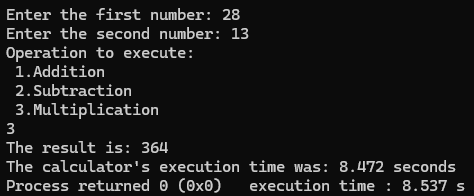
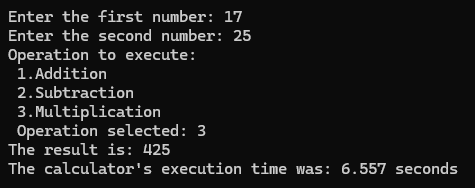
calculator and functions

Changed region(s): [[0.0, 0.0266, 1.0, 0.984], [0.4135, 0.6649, 0.443, 0.7181]]

diff --git a/functions/funciones.cpp b/functions/funciones.cpp
@@ -1,0 +1,56 @@
+//This program gives the result from the sine, cosine or tangent functions based on the user's election.
+#include <iostream>
+#include <cmath>
+#include <ctime>
+using namespace std;
+
+int main()
+{
+    float value, operation, result;
+    string func;
+    clock_t t;
+
+    t=clock();
+    cout<<"Enter a number: ";
+    cin>> value;
+    cout<<"Select the function to perform:\n 1.Sine\n 2.Cosine\n 3.Tangent\n Function selected: ";
+    cin>> operation;
+
+    if(operation == 1) //Sine
+    {
+        func = "sine";
+        result = sin(value);
+        cout<<"The sine of "<<value<<" is "<<result<<endl;
+    }
+    else
+    {
+        if(operation == 2) //Cosine
+        {
+            func = "cosine";
+            result = cos(value);
+            cout<<"The cosine of "<<value<<" is "<<result<<endl;
+        }
+        else
+        {
+            func = "tangent";
+            if(operation == 3) //Tangent
+            {
+                result = tan(value);
+                cout<<"The tangent of "<<value<<" is "<<result<<endl;
+            }
+            else
+            {
+                func = "program";
+                cout<<"Invalid option\n";
+            }
+
+        }
+
+    }
+    t=clock()-t;
+    cout<<"The execution time of the "<<func<<" was: "<<float(t)/CLOCKS_PER_SEC<<" seconds\n";
+
+
+
+
+}

diff --git a/calculator/calculadora.cpp b/calculator/calculadora.cpp
@@ -16,7 +16,7 @@ int main()
     cin>>A;
     cout<<"Enter the second number: ";
     cin>>B;
-    cout<<"Operation to execute:\n 1.Addition\n 2.Subtraction\n 3.Multiplication\n";
+    cout<<"Operation to execute:\n 1.Addition\n 2.Subtraction\n 3.Multiplication\n Operation selected: ";
     cin>>operation;
 
     if(operation == 1) //Addition
@@ -40,11 +40,11 @@ int main()
             }
             else
             {
-                cout<<"Invalid operation"; // Other number
+                cout<<"Invalid operation\n"; // Other number
             }
         }
     }
     t=clock()-t; //Hora al finalizar el programa
-    cout<<"The calculator's execution time was: "<<float(t)/CLOCKS_PER_SEC<<" seconds"; //Prints time
+    cout<<"The calculator's execution time was: "<<float(t)/CLOCKS_PER_SEC<<" seconds\n"; //Prints time
 }
 

diff --git a/README.md b/README.md
@@ -10,11 +10,15 @@ The program uses iostream, and uses cout to print results, starting with the cla
 ![Image of program in execution](assets/introduction.png)
 
 ## Calculator
-The second program created was an introductory program to some of the operators in C++ and the clock_t function. The if conditional was introduced.
+The second program created was an introductory program to some of the operators in C++ and the clock_t function. The if conditional was introduced, 
 
 It requests the user to input 2 numbers and select an option for the operation to execute. At the end it prints the time it took to execute the program.
 
+When a different option from the one's given is entered, it prints an 'invalid option' message.
+
 ![Image of program in execution](assets/calculator.png)
+![alt text](image.png)
+![alt text](assets/calculator2.png)
 
 ## Counter
 The third program created counts from 0 to 100 in steps of 5. The for loop was introduced.
@@ -25,3 +29,11 @@ The third program created counts from 0 to 100 in steps of 5. The for loop was i
 The fourth program created is evaluates wheter a number is prime or not. It was introduced the while loop and implemented the if conditionals.
 
 ![Image of program in execution](assets/prime_number.png)
+
+## Functions
+The fifth program created gives the result from the sine, cosine or tangent functions based on the user's input and selection of the function. It prints the time it took to execute the program at the end.
+
+When a different option from the one's given is entered, it prints an 'invalid option' message.
+
+![Image of program in execution](assets/functions.png)
+![alt text](assets/functions2.png)
